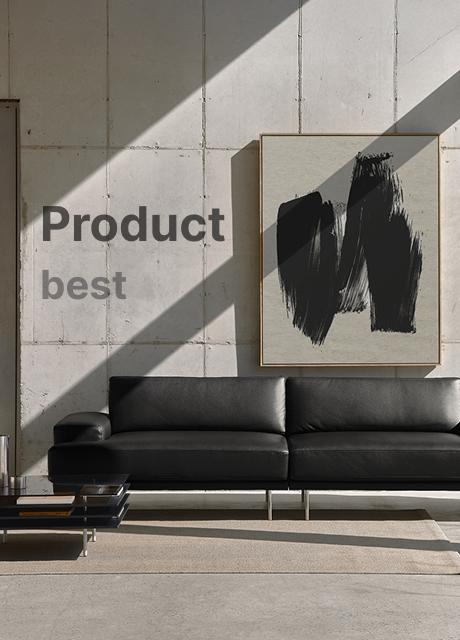
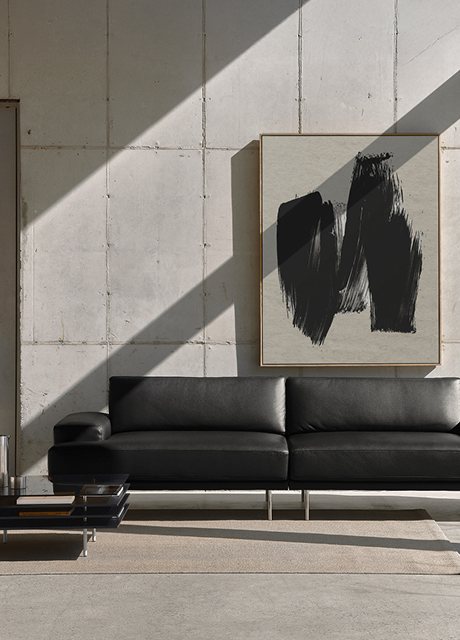
프로덕트 메인 글씨 추가 완료

Changed region(s): [[0.0913, 0.3125, 0.487, 0.375], [0.0913, 0.4062, 0.2739, 0.4688]]

diff --git a/css/style-PRODUCT.css b/css/style-PRODUCT.css
@@ -1,6 +1,7 @@
 /* ==================================== main ==================================== */
 .mine-vanner {
-    padding: 5em 0 5.44em;
+    margin: 5em 0 5.44em;
+    position: relative;
 }
 
 .mine-vanner>.m-img-box {
@@ -9,6 +10,18 @@
 
 .mine-vanner>.img-box>img {
     width: 100%;
+}
+
+.mine-vanner>.text-box {
+    position: absolute;
+    top: 15%;
+    left: 20%;
+    font-size: 2.5em;
+    color: #4A4644;
+}
+.mine-vanner>.text-box>p{
+    font-weight: 800;
+    color: #797674;
 }
 
 .Product-list-wrap>ul {
@@ -95,6 +108,10 @@
     .Product-list-wrap {
         padding-left: 1.88em;
     }
+
+    .mine-vanner>.text-box {
+        font-size: 2em;
+    }
 }
 
 /* 모바일 */
@@ -129,5 +146,11 @@
 
     .Product-goods-list img {
         width: 100%;
+    }
+
+    .mine-vanner>.text-box {
+        top: 30%;
+        left: 10%;
+        font-size: 2.5em;
     }
 }

diff --git a/PRODUCT.html b/PRODUCT.html
@@ -169,6 +169,10 @@
             <div class="m-img-box">
                 <img src="./images/02.PRODUCT/m_product_vanner.png" alt="">
             </div>
+            <div class="text-box">
+                <h2>Product</h2>
+                <p>best</p>
+            </div>
         </div>
         <div class="inner">
             <div class="Product-list-wrap">

diff --git a/css/respond-PRODUCT.css b/css/respond-PRODUCT.css
@@ -172,6 +172,10 @@
         padding: 1em;
     }
 
+    .mine-vanner>.text-box {
+        font-size: 1em;
+    }
+
 }
 
 
